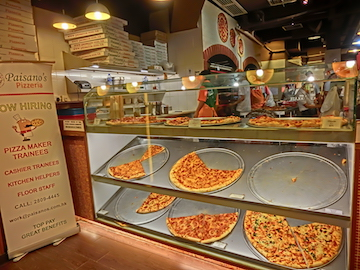
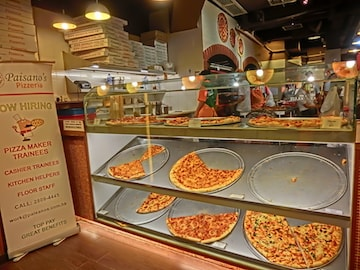
minified html + compressed image
compressed pizzeria.jpg and replaced html files with minified versions

diff --git a/index.html b/index.html
@@ -1,32 +1,10 @@
-<!DOCTYPE html>
-<html lang="en" style="-ms-text-size-adjust: 100%; -webkit-tap-highlight-color: rgba(0,0,0,0); -webkit-text-size-adjust: none; font-size: 100%; overflow-y: scroll;">
-  <head>
-    <meta charset="utf-8">
-    <meta name="viewport" content="width=device-width, initial-scale=1">
-    <meta name="description" content=" FILL ME IN ">
-    <meta name="author" content=" FILL ME IN ">
-    <title>Cameron Pittman: Portfolio</title>
-
-    <!-- Hmm, what is the impact of web fonts on speed? Measure it...
-    <link href="//fonts.googleapis.com/css?family=Open+Sans:400,700" rel="stylesheet"> -->
-
-    
-    
-
-    <script>
-      (function(w,g){w['GoogleAnalyticsObject']=g;
+<!DOCTYPE html><html lang="en" style="-ms-text-size-adjust: 100%; -webkit-tap-highlight-color: rgba(0,0,0,0); -webkit-text-size-adjust: none; font-size: 100%; overflow-y: scroll"><head><meta charset="utf-8"><meta name="viewport" content="width=device-width,initial-scale=1"><meta name="description" content=" FILL ME IN "><meta name="author" content=" FILL ME IN "><title>Cameron Pittman: Portfolio</title><!-- Hmm, what is the impact of web fonts on speed? Measure it...
+    <link href="//fonts.googleapis.com/css?family=Open+Sans:400,700" rel="stylesheet"> --><script>(function(w,g){w['GoogleAnalyticsObject']=g;
       w[g]=w[g]||function(){(w[g].q=w[g].q||[]).push(arguments)};w[g].l=1*new Date();})(window,'ga');
 
       // Optional TODO: replace with your Google Analytics profile ID.
       ga('create', 'UA-XXXX-Y');
-      ga('send', 'pageview');
-    </script>
-    <script src="http://www.google-analytics.com/analytics.js" async></script>
-    <script async src="js/perfmatters.js"></script>
-  </head>
-
-  <script async>
-    WebFontConfig = {
+      ga('send', 'pageview');</script><script src="http://www.google-analytics.com/analytics.js" async></script><script async src="js/perfmatters.js"></script></head><script async>WebFontConfig = {
       google: {
        families: ["Open Sans Condensed:400,700"]
       }
@@ -35,50 +13,4 @@
       var wf = d.createElement("script"), s = d.scripts[0];
       wf.src = "https://ajax.googleapis.com/ajax/libs/webfont/1.5.18/webfont.js";
       s.parentNode.insertBefore(wf, s);
-    })(document);
-  </script>
-
-  <body style="background: #fff; color: #333; font-family: 'Open Sans', sans-serif; font-size: 14px; font-weight: 400; line-height: 1.61; margin: 0;">
-    <header style="color: #C90B0B; margin: 0 auto; max-width: 45em; padding: 0 0.5em;">
-      <a href="/" style="color: #12C;"><img src="img/profilepic.jpg" style="border: 0; border-radius: 40px; float: left; max-width: 100%;"></a>
-      <p style="font-size: 1.5em; font-weight: bold; padding-left: 4em;">Cameron Pittman<br><span style="font-size: 0.8em; font-weight: normal;">Course Developer</span></p>
-    </header>
-
-    <div class="container" style="margin: 0 auto; max-width: 45em;">
-      <div class="hero" style="background-color: #f8f8f8; border-bottom: 1px solid #ccc; border-top: 1px solid #ccc; font-size: 1.2em; padding: 2em;">
-        <strong style="font-weight: bold;">I love web development!</strong> This is a template for a simple portfolio. I decided to use it to showcase a few Udacity courses I've taken and some teaching work, but you can use it to showcase any kind of project that you want the world to see :) <br> Contact me: me@email.com
-      </div>
-
-      <div class="content" style="padding: 1em 1em;">
-        <ul style="margin: 1em 0; padding: 0 0 0 20px;">
-          <li style="font-size: 1.1em; list-style-type: none;">
-            <img src="https://lh4.ggpht.com/kJEnfqhPvtm4m3EneSZ4fWYGS8lW4YNhEjk6zPkyrQaBUHc-2Y_ElDic99NHI0h-UBLXVbRCjFybFvrWxdk=s100" style="border: 0; float: left; max-width: 100%; padding-right: 1em;">
-            <a href="project-2048.html" style="color: #12C;">Build Your Own 2048!</a>
-            <p style="font-size: 0.9em; font-style: italic;">I made my own version of 2048. How cool is that!?</p>
-          </li>
-
-          <li style="font-size: 1.1em; list-style-type: none;">
-            <img src="https://lh6.ggpht.com/f_0W8h__3G99CWTjnMjD8BUKm7yp2-wJyApLtTwFoFtlal2ULf_JgHIsOQq2NiYfKOdMlXlMHDKNo5XVZLs=s100" style="border: 0; float: left; max-width: 100%; padding-right: 1em;">
-            <a href="project-webperf.html" style="color: #12C;">Website Performance Optimization</a>
-            <p style="font-size: 0.9em; font-style: italic;">Hey... this class looks familiar.</p>
-          </li>
-
-          <li style="font-size: 1.1em; list-style-type: none;">
-            <img src="https://lh5.ggpht.com/IKdCmTWn8a2nMhlwMYzryvzRN5CUZAOBr4tDrEAbszV7TIFe9pRAInA4kkYcgTXwrifJsBEsq1agTueuu-g=s100" style="border: 0; float: left; max-width: 100%; padding-right: 1em;">
-            <a href="project-mobile.html" style="color: #12C;">Mobile Web Development</a>
-            <p style="font-size: 0.9em; font-style: italic;">Making mobile apps isn't so hard after all.</p>
-          </li>
-
-          <li style="font-size: 1.1em; list-style-type: none;">
-            <img style="border: 0; float: left; max-width: 100%; padding-right: 1em; width: 100px;" src="views/images/pizzeria.jpg">
-            <a href="views/pizza.html" style="color: #12C;">Cam's Pizzeria</a>
-            <p style="font-size: 0.9em; font-style: italic;">Who wants a performant pizza?</p>
-          </li>
-        </ul>
-    </div>
-
-    <footer style="border-top: 1px solid #ccc; margin: 0 auto; max-width: 45em; padding: 0 0.5em;">
-      <p>&copy; Web Performance 2014 <span id="crp-stats" style="float: right; font-style: italic;"></span></p>
-    </footer>
-  </div></body>
-</html>
+    })(document);</script><body style="background: #fff; color: #333; font-family: 'Open Sans', sans-serif; font-size: 14px; font-weight: 400; line-height: 1.61; margin: 0"><header style="color: #C90B0B; margin: 0 auto; max-width: 45em; padding: 0 0.5em"><a href="/" style="color: #12C"><img src="img/profilepic.jpg" style="border: 0; border-radius: 40px; float: left; max-width: 100%"></a><p style="font-size: 1.5em; font-weight: bold; padding-left: 4em">Cameron Pittman<br><span style="font-size: 0.8em; font-weight: normal">Course Developer</span></p></header><div class="container" style="margin: 0 auto; max-width: 45em"><div class="hero" style="background-color: #f8f8f8; border-bottom: 1px solid #ccc; border-top: 1px solid #ccc; font-size: 1.2em; padding: 2em"><strong style="font-weight: bold">I love web development!</strong> This is a template for a simple portfolio. I decided to use it to showcase a few Udacity courses I've taken and some teaching work, but you can use it to showcase any kind of project that you want the world to see :)<br>Contact me: me@email.com</div><div class="content" style="padding: 1em 1em"><ul style="margin: 1em 0; padding: 0 0 0 20px"><li style="font-size: 1.1em; list-style-type: none"><img src="https://lh4.ggpht.com/kJEnfqhPvtm4m3EneSZ4fWYGS8lW4YNhEjk6zPkyrQaBUHc-2Y_ElDic99NHI0h-UBLXVbRCjFybFvrWxdk=s100" style="border: 0; float: left; max-width: 100%; padding-right: 1em"> <a href="project-2048.html" style="color: #12C">Build Your Own 2048!</a><p style="font-size: 0.9em; font-style: italic">I made my own version of 2048. How cool is that!?</p></li><li style="font-size: 1.1em; list-style-type: none"><img src="https://lh6.ggpht.com/f_0W8h__3G99CWTjnMjD8BUKm7yp2-wJyApLtTwFoFtlal2ULf_JgHIsOQq2NiYfKOdMlXlMHDKNo5XVZLs=s100" style="border: 0; float: left; max-width: 100%; padding-right: 1em"> <a href="project-webperf.html" style="color: #12C">Website Performance Optimization</a><p style="font-size: 0.9em; font-style: italic">Hey... this class looks familiar.</p></li><li style="font-size: 1.1em; list-style-type: none"><img src="https://lh5.ggpht.com/IKdCmTWn8a2nMhlwMYzryvzRN5CUZAOBr4tDrEAbszV7TIFe9pRAInA4kkYcgTXwrifJsBEsq1agTueuu-g=s100" style="border: 0; float: left; max-width: 100%; padding-right: 1em"> <a href="project-mobile.html" style="color: #12C">Mobile Web Development</a><p style="font-size: 0.9em; font-style: italic">Making mobile apps isn't so hard after all.</p></li><li style="font-size: 1.1em; list-style-type: none"><img style="border: 0; float: left; max-width: 100%; padding-right: 1em; width: 100px" src="views/images/pizzeria.jpg"> <a href="views/pizza.html" style="color: #12C">Cam's Pizzeria</a><p style="font-size: 0.9em; font-style: italic">Who wants a performant pizza?</p></li></ul></div><footer style="border-top: 1px solid #ccc; margin: 0 auto; max-width: 45em; padding: 0 0.5em"><p>&copy; Web Performance 2014 <span id="crp-stats" style="float: right; font-style: italic"></span></p></footer></div></body></html>

diff --git a/project-mobile.html b/project-mobile.html
@@ -1,31 +1,9 @@
-<!DOCTYPE html>
-<html lang="en" style="-ms-text-size-adjust: 100%; -webkit-tap-highlight-color: rgba(0,0,0,0); -webkit-text-size-adjust: none; font-size: 100%; overflow-y: scroll;">
-  <head>
-    <meta charset="utf-8">
-    <meta name="viewport" content="width=device-width, initial-scale=1">
-    <meta name="description" content=" FILL ME IN ">
-    <meta name="author" content=" FILL ME IN ">
-    <title>Cameron Pitman: Portfolio</title>
-
-    <!-- Hmm, what is the impact of web fonts on speed? Measure it... -->
-    <!-- <link href="//fonts.googleapis.com/css?family=Open+Sans:400,700" rel="stylesheet"> -->
-
-    
-    
-
-    <script>
-      (function(w,g){w['GoogleAnalyticsObject']=g;
+<!DOCTYPE html><html lang="en" style="-ms-text-size-adjust: 100%; -webkit-tap-highlight-color: rgba(0,0,0,0); -webkit-text-size-adjust: none; font-size: 100%; overflow-y: scroll"><head><meta charset="utf-8"><meta name="viewport" content="width=device-width,initial-scale=1"><meta name="description" content=" FILL ME IN "><meta name="author" content=" FILL ME IN "><title>Cameron Pitman: Portfolio</title><!-- Hmm, what is the impact of web fonts on speed? Measure it... --><!-- <link href="//fonts.googleapis.com/css?family=Open+Sans:400,700" rel="stylesheet"> --><script>(function(w,g){w['GoogleAnalyticsObject']=g;
       w[g]=w[g]||function(){(w[g].q=w[g].q||[]).push(arguments)};w[g].l=1*new Date();})(window,'ga');
 
       // Optional TODO: replace with your Google Analytics profile ID.
       ga('create', 'UA-XXXX-Y');
-      ga('send', 'pageview');
-    </script>
-    <script src="http://www.google-analytics.com/analytics.js"></script>
-    <script async src="js/perfmatters.js"></script>
-  </head>
-  <script async>
-    WebFontConfig = {
+      ga('send', 'pageview');</script><script src="http://www.google-analytics.com/analytics.js"></script><script async src="js/perfmatters.js"></script></head><script async>WebFontConfig = {
       google: {
        families: ["Open Sans Condensed:400,700"]
       }
@@ -34,31 +12,4 @@
       var wf = d.createElement("script"), s = d.scripts[0];
       wf.src = "https://ajax.googleapis.com/ajax/libs/webfont/1.5.18/webfont.js";
       s.parentNode.insertBefore(wf, s);
-    })(document);
-  </script>
-  <body style="background: #fff; color: #333; font-family: 'Open Sans', sans-serif; font-size: 14px; font-weight: 400; line-height: 1.61; margin: 0;">
-    <header style="color: #C90B0B; margin: 0 auto; max-width: 45em; padding: 0 0.5em;">
-      <a href="/" style="color: #12C;"><img src="img/profilepic.jpg" style="border: 0; border-radius: 40px; float: left; max-width: 100%;"></a>
-      <p style="font-size: 1.5em; font-weight: bold; padding-left: 4em;">Cameron Pittman<br><span style="font-size: 0.8em; font-weight: normal;">Course Developer</span></p>
-    </header>
-
-    <div class="container" style="margin: 0 auto; max-width: 45em;">
-      <div class="hero" style="background-color: #f8f8f8; border-bottom: 1px solid #ccc; border-top: 1px solid #ccc; font-size: 1.2em; padding: 2em;">
-        <strong style="font-weight: bold;">Developing for mobile is important!</strong> If you haven't taken this class, I highly recommend it!
-      </div>
-
-      <div class="content" style="padding: 1em 1em;">
-
-        <p>Bacon ipsum dolor sit amet et pork belly porchetta excepteur dolor, laborum laboris magna labore dolore in fugiat beef ribs. Fugiat leberkas nulla do kevin dolore. Flank hamburger dolor swine prosciutto sirloin pig jerky sunt consequat pariatur. Mollit meatloaf nostrud laboris shoulder excepteur velit officia meatball nisi turkey. Nulla jowl spare ribs, et drumstick magna frankfurter.</p>
-
-        <img src="img/mobilewebdev.jpg" style="border: 0; max-width: 100%;">
-
-        <p>Venison spare ribs dolor tri-tip duis turkey. Ut chicken proident ribeye est flank, sed frankfurter. Kielbasa exercitation ullamco leberkas. Landjaeger turkey culpa, tail short loin consectetur salami venison in corned beef eiusmod qui ad leberkas. Tri-tip adipisicing frankfurter ut sirloin rump consectetur. Chuck sint filet mignon labore eiusmod nulla. Venison shankle pork, consectetur nisi bacon spare ribs anim meatball sausage ball tip labore aute reprehenderit adipisicing.</p>
-
-    </div>
-
-    <footer style="border-top: 1px solid #ccc; margin: 0 auto; max-width: 45em; padding: 0 0.5em;">
-      <p>&copy; Web Performance 2014 <span id="crp-stats" style="float: right; font-style: italic;"></span></p>
-    </footer>
-  </div></body>
-</html>
+    })(document);</script><body style="background: #fff; color: #333; font-family: 'Open Sans', sans-serif; font-size: 14px; font-weight: 400; line-height: 1.61; margin: 0"><header style="color: #C90B0B; margin: 0 auto; max-width: 45em; padding: 0 0.5em"><a href="/" style="color: #12C"><img src="img/profilepic.jpg" style="border: 0; border-radius: 40px; float: left; max-width: 100%"></a><p style="font-size: 1.5em; font-weight: bold; padding-left: 4em">Cameron Pittman<br><span style="font-size: 0.8em; font-weight: normal">Course Developer</span></p></header><div class="container" style="margin: 0 auto; max-width: 45em"><div class="hero" style="background-color: #f8f8f8; border-bottom: 1px solid #ccc; border-top: 1px solid #ccc; font-size: 1.2em; padding: 2em"><strong style="font-weight: bold">Developing for mobile is important!</strong> If you haven't taken this class, I highly recommend it!</div><div class="content" style="padding: 1em 1em"><p>Bacon ipsum dolor sit amet et pork belly porchetta excepteur dolor, laborum laboris magna labore dolore in fugiat beef ribs. Fugiat leberkas nulla do kevin dolore. Flank hamburger dolor swine prosciutto sirloin pig jerky sunt consequat pariatur. Mollit meatloaf nostrud laboris shoulder excepteur velit officia meatball nisi turkey. Nulla jowl spare ribs, et drumstick magna frankfurter.</p><img src="img/mobilewebdev.jpg" style="border: 0; max-width: 100%"><p>Venison spare ribs dolor tri-tip duis turkey. Ut chicken proident ribeye est flank, sed frankfurter. Kielbasa exercitation ullamco leberkas. Landjaeger turkey culpa, tail short loin consectetur salami venison in corned beef eiusmod qui ad leberkas. Tri-tip adipisicing frankfurter ut sirloin rump consectetur. Chuck sint filet mignon labore eiusmod nulla. Venison shankle pork, consectetur nisi bacon spare ribs anim meatball sausage ball tip labore aute reprehenderit adipisicing.</p></div><footer style="border-top: 1px solid #ccc; margin: 0 auto; max-width: 45em; padding: 0 0.5em"><p>&copy; Web Performance 2014 <span id="crp-stats" style="float: right; font-style: italic"></span></p></footer></div></body></html>

diff --git a/project-webperf.html b/project-webperf.html
@@ -1,55 +1,6 @@
-<!DOCTYPE html>
-<html lang="en" style="-ms-text-size-adjust: 100%; -webkit-tap-highlight-color: rgba(0,0,0,0); -webkit-text-size-adjust: none; font-size: 100%; overflow-y: scroll;">
-  <head>
-    <meta charset="utf-8">
-    <meta name="viewport" content="width=device-width, initial-scale=1">
-    <meta name="description" content=" FILL ME IN ">
-    <meta name="author" content=" FILL ME IN ">
-    <title>Cameron Pitman: Portfolio</title>
-
-    <!-- Hmm, what is the impact of web fonts on speed? Measure it... -->
-    <!-- <link href="//fonts.googleapis.com/css?family=Open+Sans:400,700" rel="stylesheet"> -->
-
-    
-    
-
-    <script>
-      (function(w,g){w['GoogleAnalyticsObject']=g;
+<!DOCTYPE html><html lang="en" style="-ms-text-size-adjust: 100%; -webkit-tap-highlight-color: rgba(0,0,0,0); -webkit-text-size-adjust: none; font-size: 100%; overflow-y: scroll"><head><meta charset="utf-8"><meta name="viewport" content="width=device-width,initial-scale=1"><meta name="description" content=" FILL ME IN "><meta name="author" content=" FILL ME IN "><title>Cameron Pitman: Portfolio</title><!-- Hmm, what is the impact of web fonts on speed? Measure it... --><!-- <link href="//fonts.googleapis.com/css?family=Open+Sans:400,700" rel="stylesheet"> --><script>(function(w,g){w['GoogleAnalyticsObject']=g;
       w[g]=w[g]||function(){(w[g].q=w[g].q||[]).push(arguments)};w[g].l=1*new Date();})(window,'ga');
 
       // Optional TODO: replace with your Google Analytics profile ID.
       ga('create', 'UA-XXXX-Y');
-      ga('send', 'pageview');
-    </script>
-    <script src="http://www.google-analytics.com/analytics.js"></script>
-    <script async src="js/perfmatters.js"></script>
-  </head>
-
-  <body style="background: #fff; color: #333; font-family: 'Open Sans', sans-serif; font-size: 14px; font-weight: 400; line-height: 1.61; margin: 0;">
-    <header style="color: #C90B0B; margin: 0 auto; max-width: 45em; padding: 0 0.5em;">
-      <a href="/" style="color: #12C;"><img src="img/profilepic.jpg" style="border: 0; border-radius: 40px; float: left; max-width: 100%;"></a>
-      <p style="font-size: 1.5em; font-weight: bold; padding-left: 4em;">Cameron Pittman<br><span style="font-size: 0.8em; font-weight: normal;">Course Developer</span></p>
-    </header>
-
-    <div class="container" style="margin: 0 auto; max-width: 45em;">
-      <div class="hero" style="background-color: #f8f8f8; border-bottom: 1px solid #ccc; border-top: 1px solid #ccc; font-size: 1.2em; padding: 2em;">
-        <strong style="font-weight: bold;">Thanks for taking this class!</strong> You are awesome for investing time and energy into your future :) We love making classes for you!
-      </div>
-
-      <div class="content" style="padding: 1em 1em;">
-
-        <p>Thanks to everyone at Udacity and Google who made this class happen! Now for a very true meme and some <strike>lorem</strike> bacon ipsum.</p>
-
-        <img src="img/cam_be_like.jpg" style="border: 0; max-width: 100%;">
-
-        <p>Bacon ipsum dolor sit amet et pork belly porchetta excepteur dolor, laborum laboris magna labore dolore in fugiat beef ribs. Fugiat leberkas nulla do kevin dolore. Flank hamburger dolor swine prosciutto sirloin pig jerky sunt consequat pariatur. Mollit meatloaf nostrud laboris shoulder excepteur velit officia meatball nisi turkey. Nulla jowl spare ribs, et drumstick magna frankfurter.</p>
-
-        <p>Venison spare ribs dolor tri-tip duis turkey. Ut chicken proident ribeye est flank, sed frankfurter. Kielbasa exercitation ullamco leberkas. Landjaeger turkey culpa, tail short loin consectetur salami venison in corned beef eiusmod qui ad leberkas. Tri-tip adipisicing frankfurter ut sirloin rump consectetur. Chuck sint filet mignon labore eiusmod nulla. Venison shankle pork, consectetur nisi bacon spare ribs anim meatball sausage ball tip labore aute reprehenderit adipisicing.</p>
-
-    </div>
-
-    <footer style="border-top: 1px solid #ccc; margin: 0 auto; max-width: 45em; padding: 0 0.5em;">
-      <p>&copy; Web Performance 2014 <span id="crp-stats" style="float: right; font-style: italic;"></span></p>
-    </footer>
-  </div></body>
-</html>
+      ga('send', 'pageview');</script><script src="http://www.google-analytics.com/analytics.js"></script><script async src="js/perfmatters.js"></script></head><body style="background: #fff; color: #333; font-family: 'Open Sans', sans-serif; font-size: 14px; font-weight: 400; line-height: 1.61; margin: 0"><header style="color: #C90B0B; margin: 0 auto; max-width: 45em; padding: 0 0.5em"><a href="/" style="color: #12C"><img src="img/profilepic.jpg" style="border: 0; border-radius: 40px; float: left; max-width: 100%"></a><p style="font-size: 1.5em; font-weight: bold; padding-left: 4em">Cameron Pittman<br><span style="font-size: 0.8em; font-weight: normal">Course Developer</span></p></header><div class="container" style="margin: 0 auto; max-width: 45em"><div class="hero" style="background-color: #f8f8f8; border-bottom: 1px solid #ccc; border-top: 1px solid #ccc; font-size: 1.2em; padding: 2em"><strong style="font-weight: bold">Thanks for taking this class!</strong> You are awesome for investing time and energy into your future :) We love making classes for you!</div><div class="content" style="padding: 1em 1em"><p>Thanks to everyone at Udacity and Google who made this class happen! Now for a very true meme and some <strike>lorem</strike> bacon ipsum.</p><img src="img/cam_be_like.jpg" style="border: 0; max-width: 100%"><p>Bacon ipsum dolor sit amet et pork belly porchetta excepteur dolor, laborum laboris magna labore dolore in fugiat beef ribs. Fugiat leberkas nulla do kevin dolore. Flank hamburger dolor swine prosciutto sirloin pig jerky sunt consequat pariatur. Mollit meatloaf nostrud laboris shoulder excepteur velit officia meatball nisi turkey. Nulla jowl spare ribs, et drumstick magna frankfurter.</p><p>Venison spare ribs dolor tri-tip duis turkey. Ut chicken proident ribeye est flank, sed frankfurter. Kielbasa exercitation ullamco leberkas. Landjaeger turkey culpa, tail short loin consectetur salami venison in corned beef eiusmod qui ad leberkas. Tri-tip adipisicing frankfurter ut sirloin rump consectetur. Chuck sint filet mignon labore eiusmod nulla. Venison shankle pork, consectetur nisi bacon spare ribs anim meatball sausage ball tip labore aute reprehenderit adipisicing.</p></div><footer style="border-top: 1px solid #ccc; margin: 0 auto; max-width: 45em; padding: 0 0.5em"><p>&copy; Web Performance 2014 <span id="crp-stats" style="float: right; font-style: italic"></span></p></footer></div></body></html>

diff --git a/project-2048.html b/project-2048.html
@@ -1,53 +1,6 @@
-<!DOCTYPE html>
-<html lang="en" style="-ms-text-size-adjust: 100%; -webkit-tap-highlight-color: rgba(0,0,0,0); -webkit-text-size-adjust: none; font-size: 100%; overflow-y: scroll;">
-  <head>
-    <meta charset="utf-8">
-    <meta name="viewport" content="width=device-width, initial-scale=1">
-    <meta name="description" content=" FILL ME IN ">
-    <meta name="author" content=" FILL ME IN ">
-    <title>Cameron Pittman: Portfolio</title>
-
-    <!-- Hmm, what is the impact of web fonts on speed? Measure it... -->
-    <!-- <link href="//fonts.googleapis.com/css?family=Open+Sans:400,700" rel="stylesheet"> -->
-
-    
-    
-
-    <script>
-      (function(w,g){w['GoogleAnalyticsObject']=g;
+<!DOCTYPE html><html lang="en" style="-ms-text-size-adjust: 100%; -webkit-tap-highlight-color: rgba(0,0,0,0); -webkit-text-size-adjust: none; font-size: 100%; overflow-y: scroll"><head><meta charset="utf-8"><meta name="viewport" content="width=device-width,initial-scale=1"><meta name="description" content=" FILL ME IN "><meta name="author" content=" FILL ME IN "><title>Cameron Pittman: Portfolio</title><!-- Hmm, what is the impact of web fonts on speed? Measure it... --><!-- <link href="//fonts.googleapis.com/css?family=Open+Sans:400,700" rel="stylesheet"> --><script>(function(w,g){w['GoogleAnalyticsObject']=g;
       w[g]=w[g]||function(){(w[g].q=w[g].q||[]).push(arguments)};w[g].l=1*new Date();})(window,'ga');
 
       // Optional TODO: replace with your Google Analytics profile ID.
       ga('create', 'UA-XXXX-Y');
-      ga('send', 'pageview');
-    </script>
-    <script src="//www.google-analytics.com/analytics.js"></script>
-    <script src="js/perfmatters.js"></script>
-  </head>
-
-  <body style="background: #fff; color: #333; font-family: 'Open Sans', sans-serif; font-size: 14px; font-weight: 400; line-height: 1.61; margin: 0;">
-    <header style="color: #C90B0B; margin: 0 auto; max-width: 45em; padding: 0 0.5em;">
-      <a href="/" style="color: #12C;"><img src="img/profilepic.jpg" style="border: 0; border-radius: 40px; float: left; max-width: 100%;"></a>
-      <p style="font-size: 1.5em; font-weight: bold; padding-left: 4em;">Cameron Pittman<br><span style="font-size: 0.8em; font-weight: normal;">Course Developer</span></p>
-    </header>
-
-    <div class="container" style="margin: 0 auto; max-width: 45em;">
-      <div class="hero" style="background-color: #f8f8f8; border-bottom: 1px solid #ccc; border-top: 1px solid #ccc; font-size: 1.2em; padding: 2em;">
-        <strong style="font-weight: bold;">2048 is awesome!</strong> I loved making my own 2048 with Andy and Sarah. Below, I'm showing off a screenshot from the Udacity version of 2048.
-      </div>
-
-      <div class="content" style="padding: 1em 1em;">
-
-        <img class="img-responsive" src="http://cameronwp.github.io/udportfolio/img/2048.png" style="border: 0; max-width: 100%;">
-
-        <p>Bacon ipsum dolor sit amet et pork belly porchetta excepteur dolor, laborum laboris magna labore dolore in fugiat beef ribs. Fugiat leberkas nulla do kevin dolore. Flank hamburger dolor swine prosciutto sirloin pig jerky sunt consequat pariatur. Mollit meatloaf nostrud laboris shoulder excepteur velit officia meatball nisi turkey. Nulla jowl spare ribs, et drumstick magna frankfurter.</p>
-
-        <p>Venison spare ribs dolor tri-tip duis turkey. Ut chicken proident ribeye est flank, sed frankfurter. Kielbasa exercitation ullamco leberkas. Landjaeger turkey culpa, tail short loin consectetur salami venison in corned beef eiusmod qui ad leberkas. Tri-tip adipisicing frankfurter ut sirloin rump consectetur. Chuck sint filet mignon labore eiusmod nulla. Venison shankle pork, consectetur nisi bacon spare ribs anim meatball sausage ball tip labore aute reprehenderit adipisicing.</p>
-
-    </div>
-
-    <footer style="border-top: 1px solid #ccc; margin: 0 auto; max-width: 45em; padding: 0 0.5em;">
-      <p>&copy; Web Performance 2014 <span id="crp-stats" style="float: right; font-style: italic;"></span></p>
-    </footer>
-  </div></body>
-</html>
+      ga('send', 'pageview');</script><script src="//www.google-analytics.com/analytics.js"></script><script src="js/perfmatters.js"></script></head><body style="background: #fff; color: #333; font-family: 'Open Sans', sans-serif; font-size: 14px; font-weight: 400; line-height: 1.61; margin: 0"><header style="color: #C90B0B; margin: 0 auto; max-width: 45em; padding: 0 0.5em"><a href="/" style="color: #12C"><img src="img/profilepic.jpg" style="border: 0; border-radius: 40px; float: left; max-width: 100%"></a><p style="font-size: 1.5em; font-weight: bold; padding-left: 4em">Cameron Pittman<br><span style="font-size: 0.8em; font-weight: normal">Course Developer</span></p></header><div class="container" style="margin: 0 auto; max-width: 45em"><div class="hero" style="background-color: #f8f8f8; border-bottom: 1px solid #ccc; border-top: 1px solid #ccc; font-size: 1.2em; padding: 2em"><strong style="font-weight: bold">2048 is awesome!</strong> I loved making my own 2048 with Andy and Sarah. Below, I'm showing off a screenshot from the Udacity version of 2048.</div><div class="content" style="padding: 1em 1em"><img class="img-responsive" src="http://cameronwp.github.io/udportfolio/img/2048.png" style="border: 0; max-width: 100%"><p>Bacon ipsum dolor sit amet et pork belly porchetta excepteur dolor, laborum laboris magna labore dolore in fugiat beef ribs. Fugiat leberkas nulla do kevin dolore. Flank hamburger dolor swine prosciutto sirloin pig jerky sunt consequat pariatur. Mollit meatloaf nostrud laboris shoulder excepteur velit officia meatball nisi turkey. Nulla jowl spare ribs, et drumstick magna frankfurter.</p><p>Venison spare ribs dolor tri-tip duis turkey. Ut chicken proident ribeye est flank, sed frankfurter. Kielbasa exercitation ullamco leberkas. Landjaeger turkey culpa, tail short loin consectetur salami venison in corned beef eiusmod qui ad leberkas. Tri-tip adipisicing frankfurter ut sirloin rump consectetur. Chuck sint filet mignon labore eiusmod nulla. Venison shankle pork, consectetur nisi bacon spare ribs anim meatball sausage ball tip labore aute reprehenderit adipisicing.</p></div><footer style="border-top: 1px solid #ccc; margin: 0 auto; max-width: 45em; padding: 0 0.5em"><p>&copy; Web Performance 2014 <span id="crp-stats" style="float: right; font-style: italic"></span></p></footer></div></body></html>

diff --git a/gulpfile.js b/gulpfile.js
@@ -16,7 +16,7 @@ gulp.task('scripts', function() {
 });
 
 gulp.task('image', function() {
-    return gulp.src('src/images/*')
+    return gulp.src('.*')
     .pipe(imagemin({ progressive: true }))
     .pipe(gulp.dest('images'));
 });
